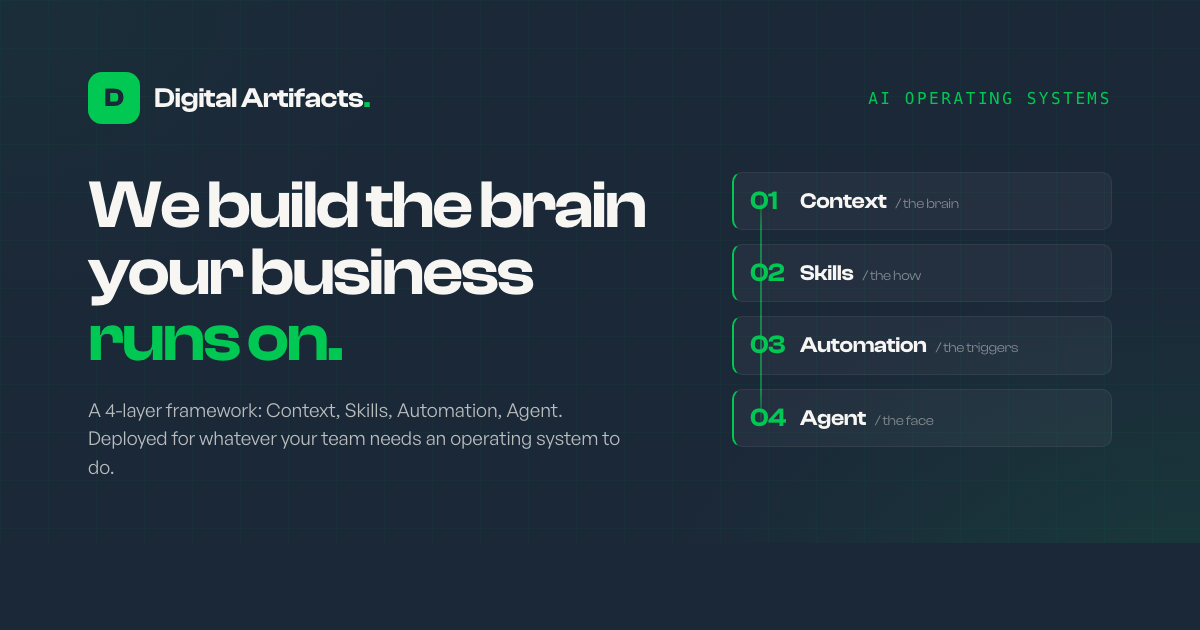
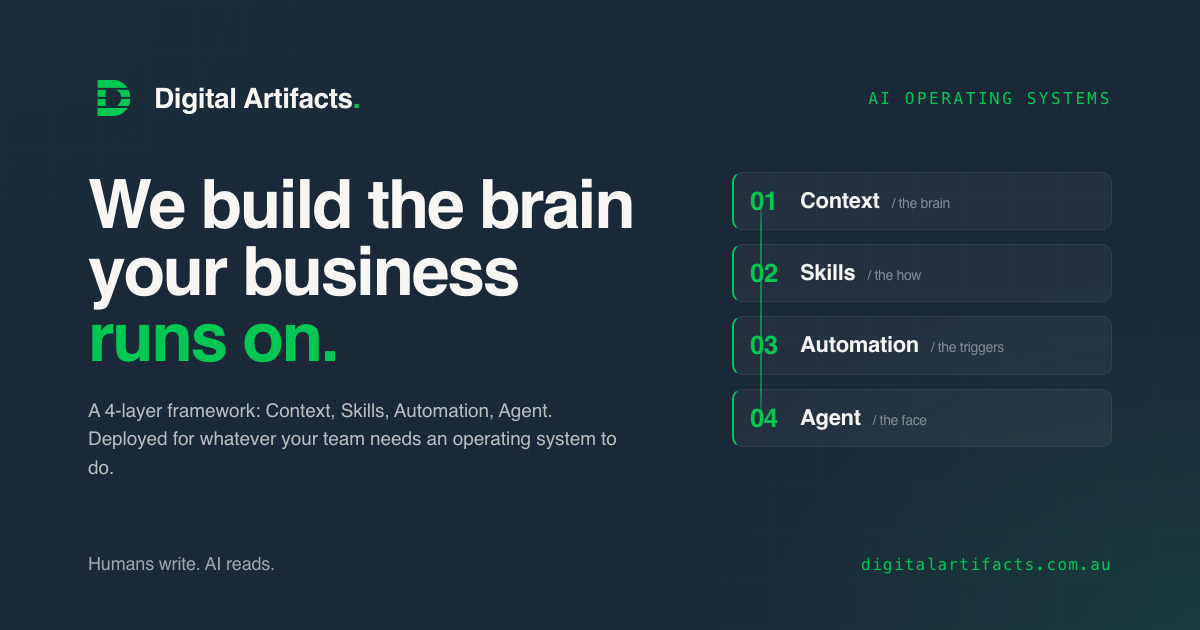
Update OG social card to the D-from-4-layers mark
The social share card still carried the old plain-D-in-a-tile logo, so
link previews looked off-brand against the new mark now used everywhere
else. Swaps it for the green D-from-4-layers mark and re-renders the PNG.

diff --git a/og/og-image.html b/og/og-image.html
@@ -214,7 +214,16 @@
 
     <div class="top">
       <div class="brand">
-        <div class="brand__dot">D</div>
+        <svg class="brand__mark" width="52" height="52" viewBox="7 4 92 92" xmlns="http://www.w3.org/2000/svg">
+          <defs><mask id="ogMark">
+            <rect x="7" y="4" width="92" height="92" fill="#ffffff"/>
+            <rect x="7" y="32" width="92" height="3.6" fill="#000000"/>
+            <rect x="7" y="48" width="92" height="3.6" fill="#000000"/>
+            <rect x="7" y="64" width="92" height="3.6" fill="#000000"/>
+          </mask></defs>
+          <path d="M24,18 H52 A30,32 0 0 1 52,82 H24 Z M38,34 H50 A16,16 0 0 1 50,66 H38 Z"
+                fill="#00C853" fill-rule="evenodd" mask="url(#ogMark)"/>
+        </svg>
         <span>Digital Artifacts<span class="dot-accent">.</span></span>
       </div>
       <span class="eyebrow">AI operating systems</span>